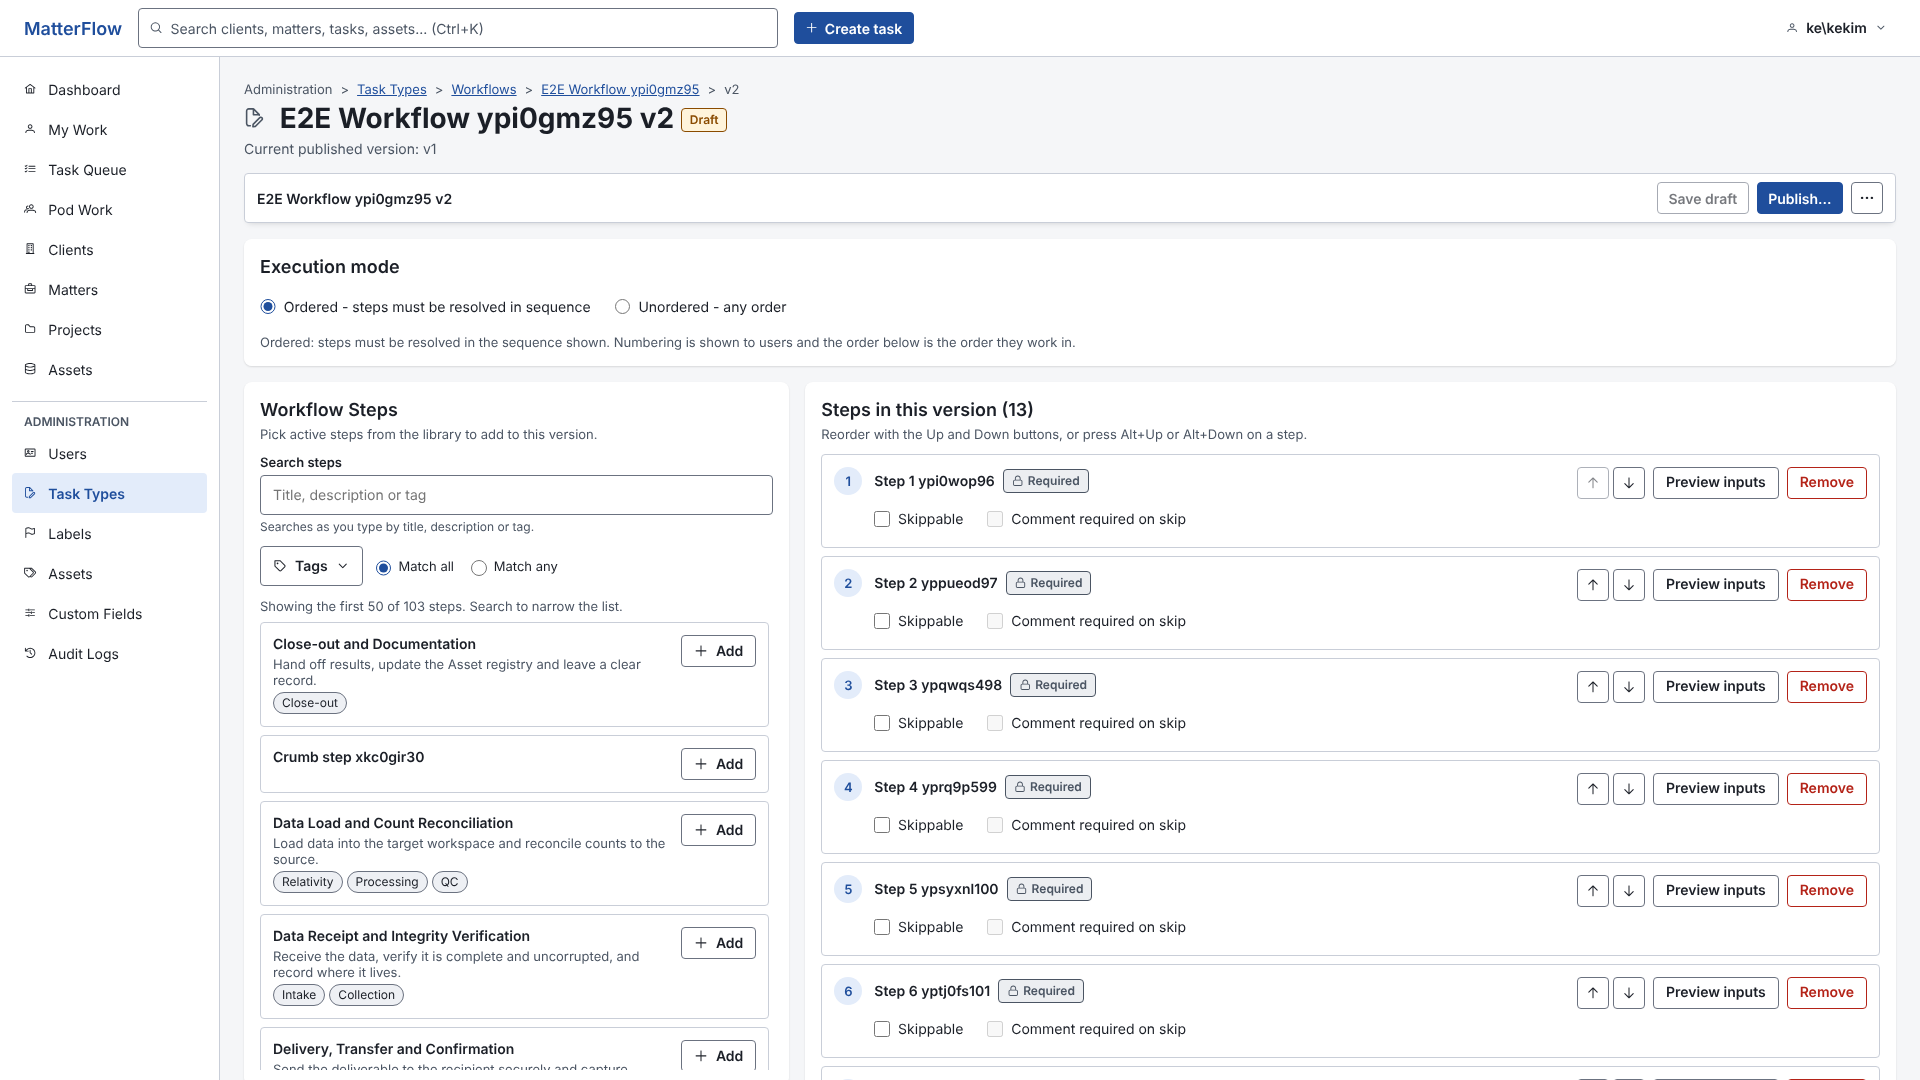
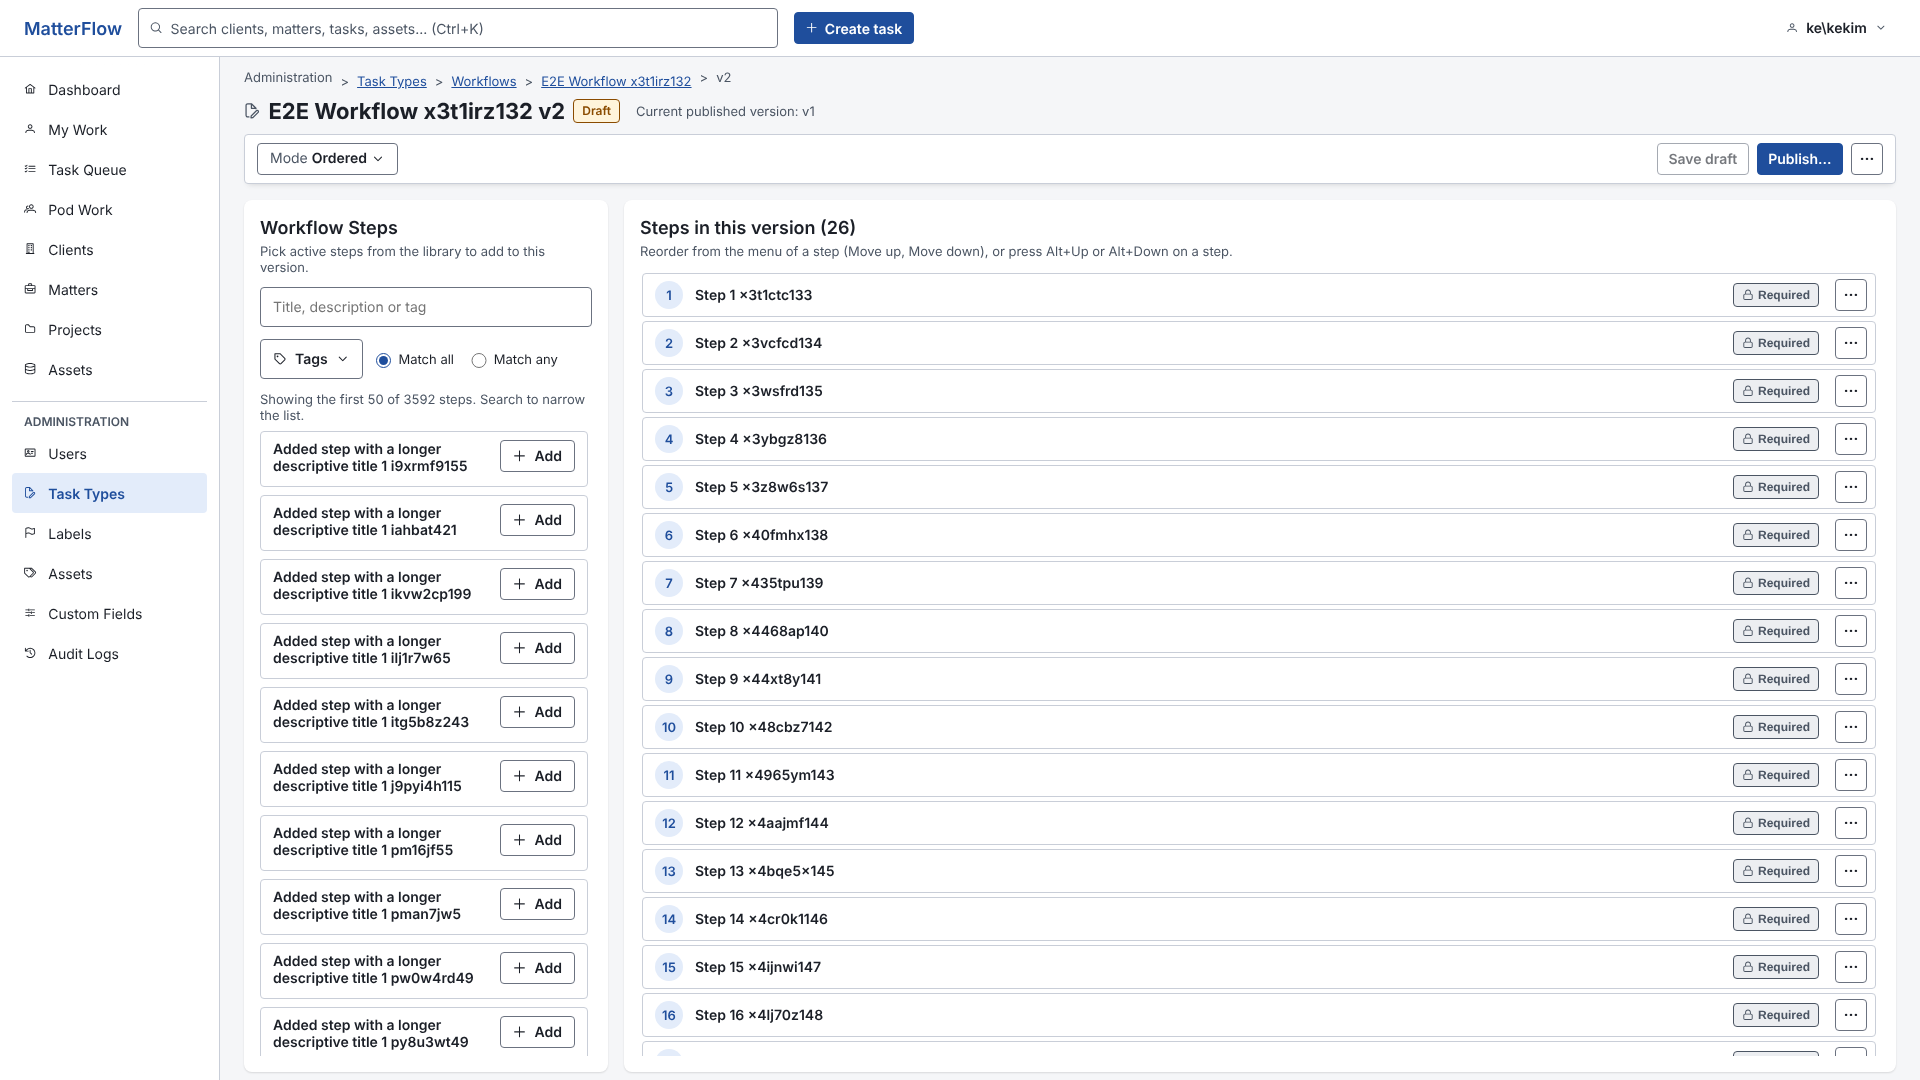
TY-C2 screenshots and status for the version editor (#393, #394, #395, #396, #397, #398, #401)
Screenshots of the draft editor, the row menu and Skip rules popover, the library pane and drawer, the mode popover, the leave dialog and the publish diff at 1366, 1920, 768 and 375 px are in docs/ux/task-types-review/fixes/ty6-version/, and the WP-TY6 line of the delivery plan status now covers the second batch.

In plain words: pictures of the new version editor at four screen sizes, and a note in the delivery plan saying which issues are done and what is still open.

Claude-Session: https://claude.ai/code/session_01GjQ3L6gEego4PwsSfbngaa

Changed region(s): [[0.125, 0.0611, 0.9688, 1.0], [0.8438, 0.1222, 1.0, 0.2139]]

diff --git a/docs/ux/task-types-review/delivery-plan.md b/docs/ux/task-types-review/delivery-plan.md
@@ -204,7 +204,8 @@ Contract e2e over the seeded data of the review at four sizes (axe 0 including `
 - WP-TY3 Lists on the grid contract (2026-10-19, lane A, TY-A, commits dd5bf77 #355, a0853e1 #356): #355 done (one `mf-action-menu` overflow per row in the last, sticky column of Task Types, Workflows and Workflow Steps: Edit form / Open draft vN / Edit inputs, then Deactivate or Activate with the confirm dialog; the menu is `floating` (placed against the window, flips up, closes on scroll or resize) so a scrolling table never clips it; the name is the only link; on a phone the first column fills the box so nothing is half hidden behind the button; Tab stops per row at 1366 on the review data: Task Types median 4 (max 7, was 6 to 7 plus chips; the chips stay until #371), Workflows 2, Steps median 3); #356 done (name clamped to two lines, one line above a one-line description, full text as tooltip; Steps: Title is the spring (min 240 px), Description from 1200 px up as one clipped line, two tag chips and "+n more", "Used in" is the number as the link with an `aria-label` "Used in 5 workflows"; every Workflows and Steps row is 44 px on the seeded long-name rows at 1366, 1920, 768 and 375; rows with several task type chips stay taller until #376); new global `styles/_admin-lists.scss` (no component style grew); tests: unit (action-menu floating, the three lists, list-return) and e2e `ty3-lists` (axe 0 at 1366/1920/768/375 with the menu open, no page-level sideways scroll, keyboard, Workflow.Manage-only, TaskType.Manage-only, Task.View-only) green twice, regressions `task-types-tabs`, `admin-form-designer-pages`, `workflow-steps`, `workflow-version`, `task-type-icons`, `column-filters-records`, `column-filters-admin`, `wp8-list-chrome`, `wp12-phone-cards`, `clients-keyboard`, `fixed-header` green; initial bundle 646.53 kB of 700 kB; screenshots `fixes/ty3-lists/`; known limits: a keyboard Tab onto the menu button on a phone scrolls the table sideways; #371, #374, #375, #376 follow in this lane. Open in WP-TY3: #371 and the rest, not started. Backend (lane D, TY-D1, commit `git log --grep "TY-D1 #372"`): #372 done (additive, no SQL, no index): `openTaskCount` on every item of `GET /api/v1/task-types`, on `GET /api/v1/task-types/{id}` and on the create and update replies = Tasks of the type that are open (New, In Progress, On Hold; the Task Queue definition) over every pod, Matter and Project; `null` (not 0) without `Task.View`; a type without open Tasks is 0; equals the total of `GET /api/v1/task-queue?type={id}&status=NEW&status=IN_PROGRESS&status=ON_HOLD` (the Task Queue parameter for the type filter is `type`, repeatable). New `sort` on the list (not paged): `name` (default), `-name`, `openTaskCount`, `-openTaskCount` (ties keep the name order). `lastUsedAt` is not provided. For TT7 the workflows that would lose their last task type are still derived by the UI from `taskTypes` / `taskTypeCount` of the workflows it loads. Tests: `TaskTypeOpenCountsApiTests` (5), `TaskTypeCountsPerformanceTests` and `TaskTypeCountsLargePerformanceTests` (3 statements for any number of types).
 - WP-TY4 Task Type record page: not started.
 - WP-TY5 Workflow record page: not started.
-- WP-TY6 Version editor (2026-10-19, lane C): #357 done (sticky action bar: new `workflow-version-bar.ts`, the page's header actions moved into it; Save draft, Publish..., overflow with Discard draft; read-only: Create new draft or Open draft vN, overflow with Retire version; no shortcut added or changed); #358 done (new `shared/ui/scroll-region.ts` directive: a box that scrolls becomes a named focusable region, "Changes in this version", only while it overflows; `mf-confirm-dialog` gets a `scrollLabel` input used by the version publish dialog, its body max-height now leaves room so the dialog itself no longer scrolls; the form publish dialog's list of changes is its own bounded region); #393 onward open. Tests: unit `workflow-version-bar.spec.ts`, `scroll-region.spec.ts`, e2e `ty6-version-bar.spec.ts` and `ty6-publish-dialog.spec.ts` (four widths, axe, keyboard, states, permissions, 40-change and 80-field diffs); initial bundle 644.97 kB unchanged; screenshots `fixes/ty6-version/`; known limits: a Workflow.Manage-only user gets the load error on a version (the version endpoint also needs Task.View; for WP-TY10).
+- WP-TY6 Version editor (2026-10-19, lane C): #357 done (sticky action bar: new `workflow-version-bar.ts`, the page's header actions moved into it; Save draft, Publish..., overflow with Discard draft; read-only: Create new draft or Open draft vN, overflow with Retire version; no shortcut added or changed); #358 done (new `shared/ui/scroll-region.ts` directive: a box that scrolls becomes a named focusable region, "Changes in this version", only while it overflows; `mf-confirm-dialog` gets a `scrollLabel` input used by the version publish dialog, its body max-height now leaves room so the dialog itself no longer scrolls; the form publish dialog's list of changes is its own bounded region); #393 to #398 and #401 done (TY-C2, below); #399, #400, #402 open (they wait for #389 and #391). Tests: unit `workflow-version-bar.spec.ts`, `scroll-region.spec.ts`, e2e `ty6-version-bar.spec.ts` and `ty6-publish-dialog.spec.ts` (four widths, axe, keyboard, states, permissions, 40-change and 80-field diffs); initial bundle 644.97 kB unchanged; screenshots `fixes/ty6-version/`; known limits: a Workflow.Manage-only user gets the load error on a version (the version endpoint also needs Task.View; for WP-TY10).
+- WP-TY6 Version editor, second batch (2026-10-19, lane C, TY-C2): #393, #394, #395, #396, #397, #398 and #401 done. The version page is a fixed-height page (`mf-fixed-page`: header and action bar stay, the steps pane scrolls; below 768 x 561 the page scrolls and the bar sticks); a step is a 44 px row (`workflow-step-row.ts`: number, one-line title cut at two lines with a tooltip, one rule badge Required / Skippable / Skippable - comment, overflow with Move up, Move down, Skip rules popover, Preview inputs, Remove with the shared Undo toast; **2 Tab stops per row** in a draft: the badge and the overflow; Alt+Arrow and its live announcement unchanged and focus stays on the same control); the library (`workflow-step-library.ts`) is a left pane from 1280 px (DOM order = reading order) and a drawer from "Add step" below it, so the steps come first at 375 and 768 (first step within the first screen), the drawer stays open for several adds and counts them ("3 added"), "first 50 of N" kept; the execution mode is an inline control in the bar (`workflow-mode-control.ts`, popover with the two choices and the explanation, the change confirmation stays) and a badge in the meta line of read-only versions; leaving a dirty draft offers Stay (default), Leave (secondary, red outline) and **Save draft and leave** (primary; a failed save keeps the page open): `LeaveConfirmService.ask(save?)`, optional `saveForLeave()` on `HasUnsavedChanges` and an optional third button on `mf-confirm-dialog` (`extraLabel`), all additive; the publish diff (`workflow-diff.ts`) counts a step as moved only when its order relative to the other steps changed (longest run that kept its order stays), folds the position shifts caused by additions and removals into one expandable line "11 steps moved" and clamps long titles beside their badge. New shared helper `shared/ui/float-position.ts` (fixed panel next to its trigger, used by the Skip rules and mode popovers); `mf-action-menu` ignores Alt+Arrow on its button (the page owns it) and its flip-above placement no longer collapses the menu (`top: auto`, a bug of the #355 floating menu). No shortcut added or changed, no drag handle. Tests: unit `workflow-step-row`, `workflow-step-library`, `workflow-diff` (removal shifting 13 steps, real reorder, mixed), `workflow-version-bar` (mode), `unsaved-changes.guard`, `confirm-dialog` (extra), `float-position`, `action-menu`, `fixed-page`; e2e `ty6-version-editor` (rows, overflow, skip rules, Undo, drawer, pane, 50-item library, mode), `ty6-version-leave` (crumb, Back, tab close, failed save), `ty6-publish-diff`, adapted `ty6-version-bar` (fixed height, long workflow name); four widths, axe 0 with menus, popovers, drawer and dialogs open, no sideways scroll, 13 and 26 steps, long titles, permission variants (Workflow.Manage with Task.View, TaskType.Manage only and Task.View only get the 403 page); initial bundle 646.90 kB of 700 kB (644.97 kB at the start of this batch, before lane A's merged commits; the version page and its new components are lazy, the shared additions are the leave guard and the confirm dialog's extra button); screenshots `fixes/ty6-version/`; known limits: the Skip rules and mode popovers close when the page scrolls (their trigger moves away); a title of 150 characters is cut at three lines in the heading (full text in the tooltip, breadcrumb and tab title).
 - WP-TY7 Step record page: not started.
 - WP-TY8 Form designer layout: not started.
 - WP-TY9 Keyboard, focus and a11y: not started.
